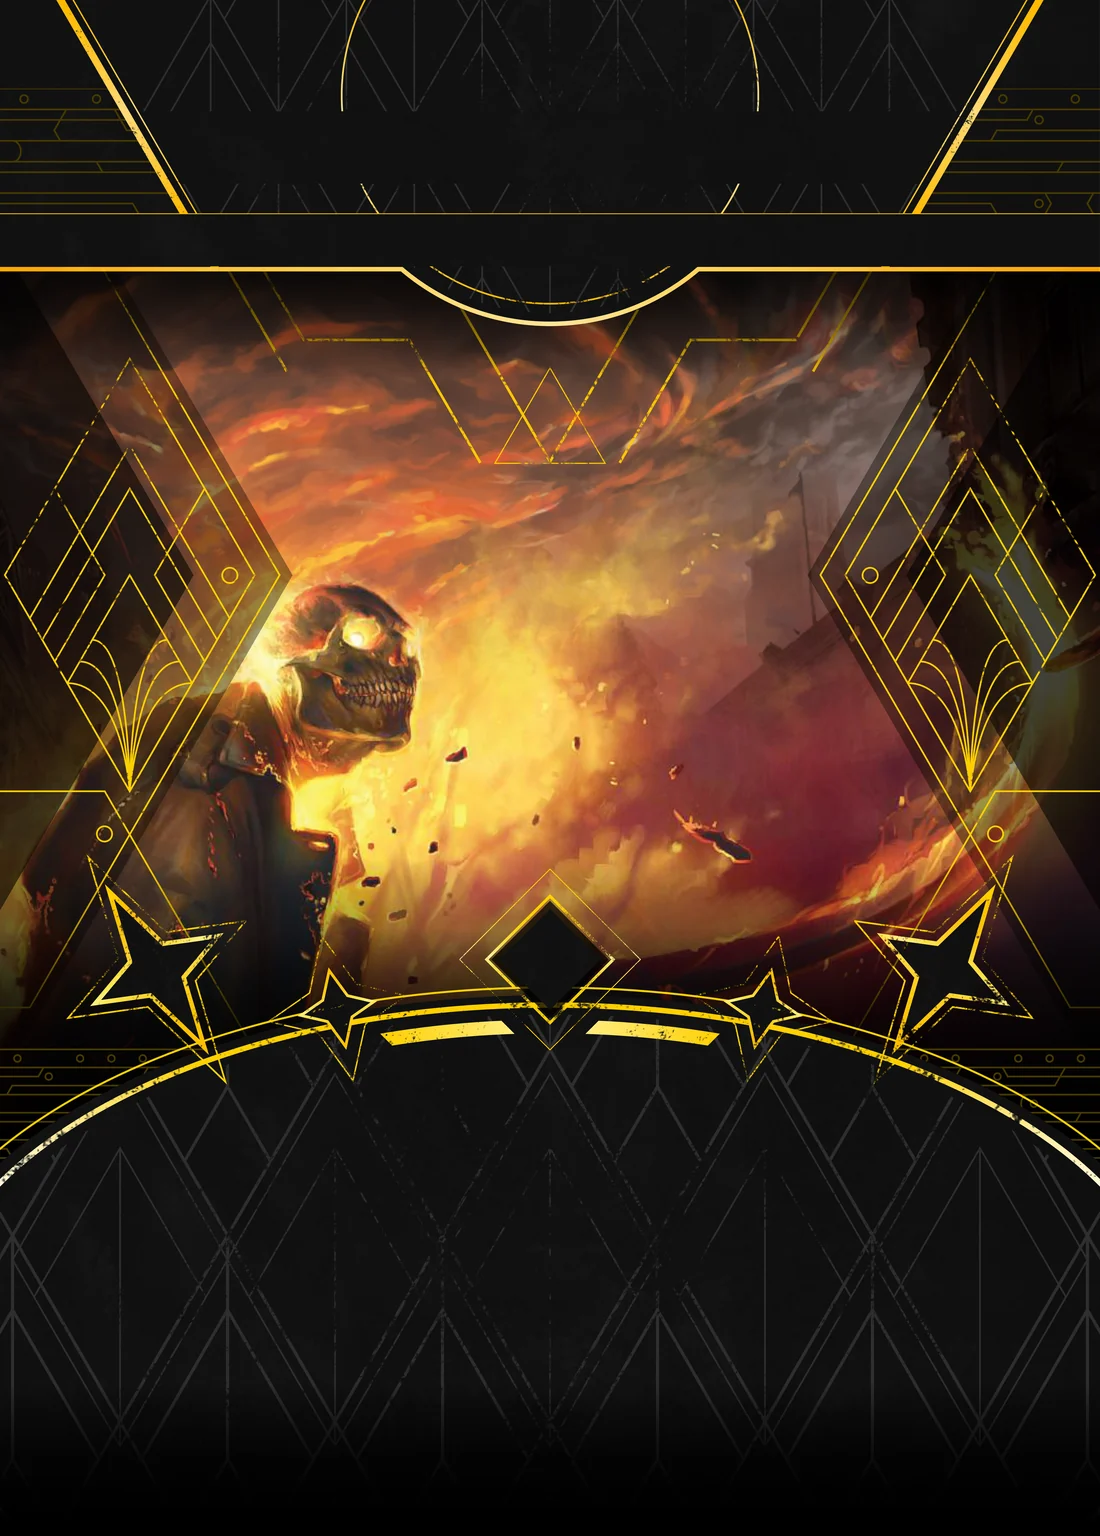
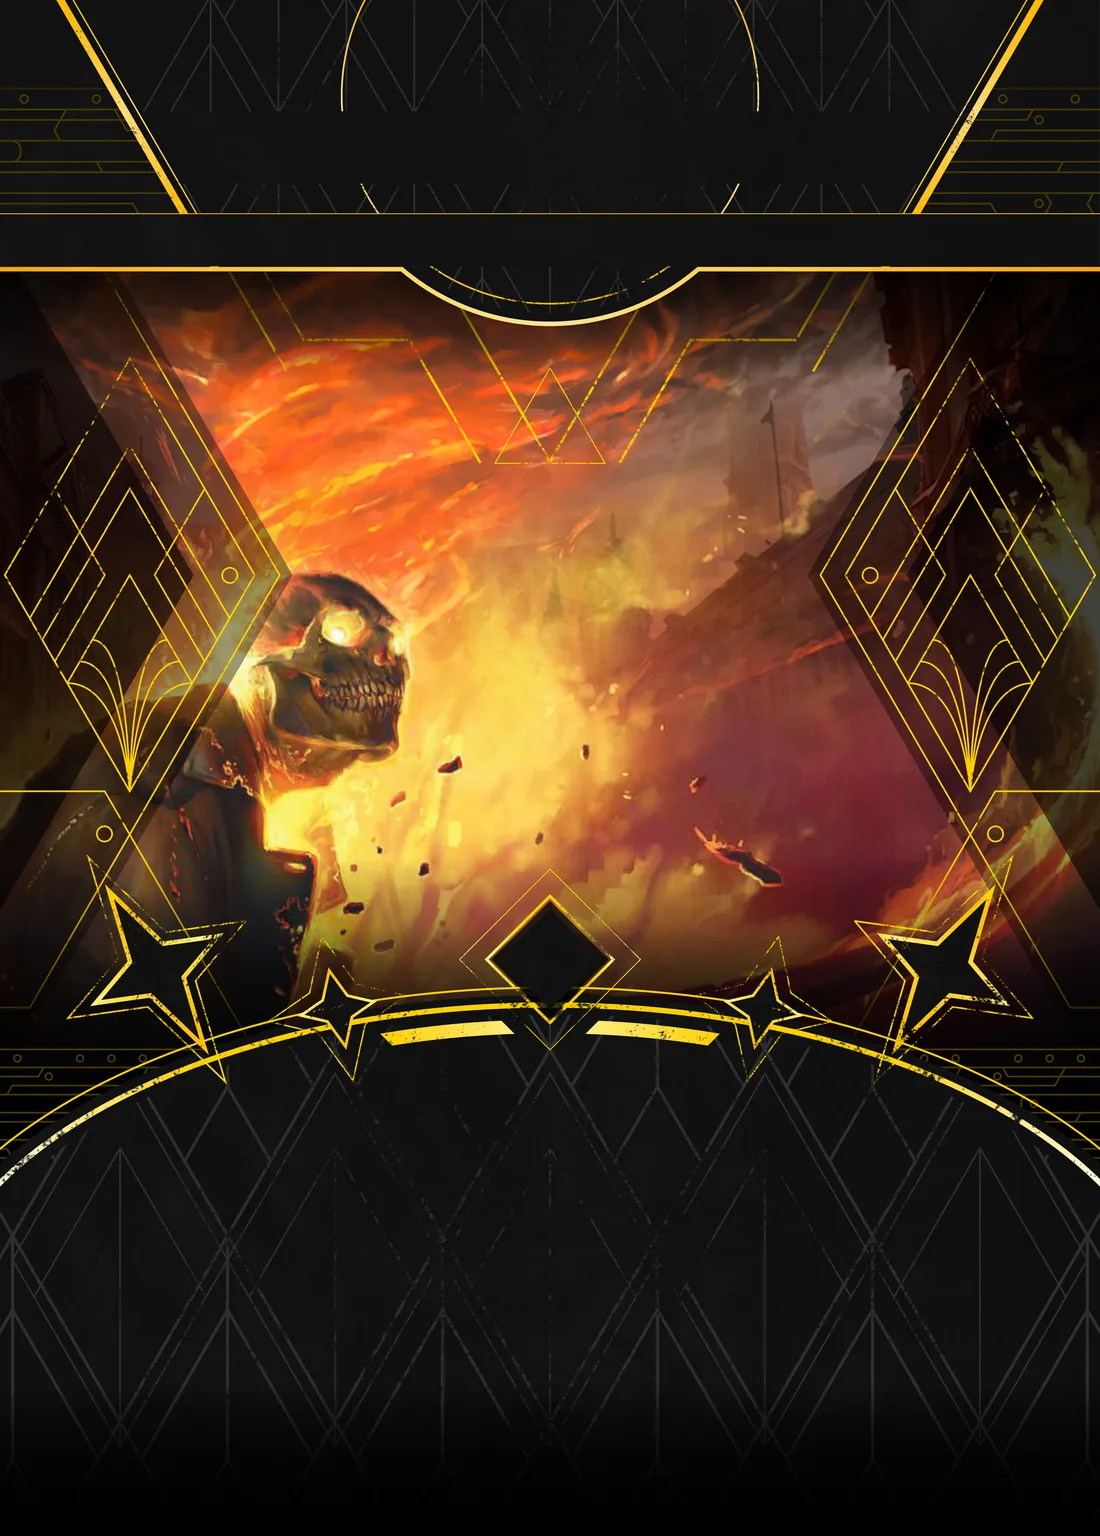
Fix UBR v1 and v2

Changed region(s): [[0.0, 0.1562, 1.0, 0.6562]]

diff --git a/js/app.js b/js/app.js
@@ -1819,9 +1819,10 @@ function imageToPngBlob(url, bleed){
     return new Promise(function(res){ cv.toBlob(function(b){res(b);},'image/png'); });
   });
 }
-/* The UB set has two card backs: one for ultimatums, one for boons (a refraction is a boon). */
+/* The UB set has two card backs: one for ultimatums, one for boons (a refraction is a boon),
+   each in the two frame skins — the no-bleed back follows ubSkin just like the bleed one below. */
 function ubBackType(catOrIt){ var c=(catOrIt&&catOrIt.cat)||catOrIt; return c==='ultimatum'?'ultimatum':'boon'; }
-function ubBackUrl(type){ return 'assets/ub/backs/'+type+'.webp'; }
+function ubBackUrl(type){ return 'assets/ub/backs/'+type+(ubSkin==='v2'?'-v2':'')+'.webp'; }
 function ubBackLabel(type){ return (type==='ultimatum'?t('ubultimatums'):t('ubboons'))+' — '+t('tbback'); }
 /* A flat image as a blob at the given mime (the UB no-bleed back). Null if it will not load. */
 function imageBlob(url, mime, quality){

diff --git a/sw.js b/sw.js
@@ -15,7 +15,7 @@
    BUMP SW_VERSION on every release (see tools/other/instructions.md §7): it renames the shell
    cache, so activate() drops the old one and the new shell/text is served. */
 
-const SW_VERSION = '1.2.0';
+const SW_VERSION = '1.2.1';
 const SHELL = 'tla-shell-' + SW_VERSION;   // shell + read/downloaded text, replaced each version
 const MEDIA = 'tla-media';                 // images, kept across versions (immutable per URL)
 

diff --git a/tools/import_ub_cards.py b/tools/import_ub_cards.py
@@ -144,8 +144,12 @@ def pre_framed(path):
 # Finished cards whose art lives outside the main export (an artist's own composite in the
 # "Nuevos" folder beside the source). `file` is that composite; it is bleed-cropped as is.
 EXTRA = [
+    # V1 (5argon's clean frame) art. The v2 "skin", the with-bleed exports and this card's backs
+    # are regenerated offline — there is no committed builder for the cards-v2 / *-bleed / backs
+    # dirs (they were added as binaries); the v2 source is Refraction_scorched_earth_fix_v2.png,
+    # beside this file in the "Nuevos" folder.
     {'slug': 'ultimatum-of-scorched-earth', 'en': 'Ultimatum of Scorched Earth',
-     'cat': 'ultimatum', 'refraction': True, 'file': 'Refraction_scorched_earth.png'},
+     'cat': 'ultimatum', 'refraction': True, 'file': 'Refraction_scorched_earth_fix_v1.png'},
 ]
 
 # Cards the Grimoire names but with no art anywhere yet — rendered from the frame alone.
